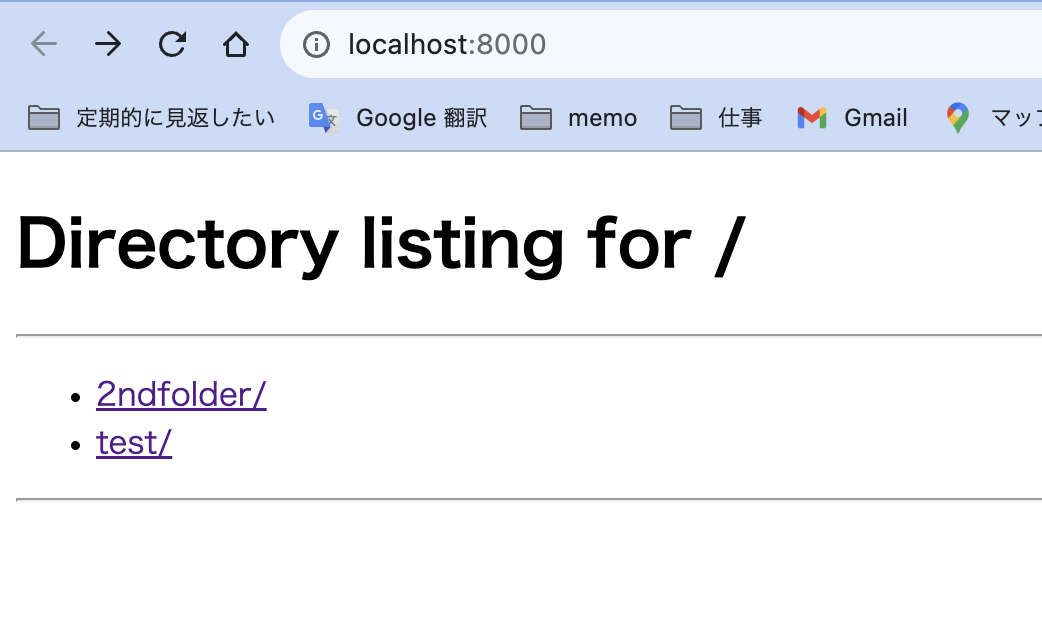
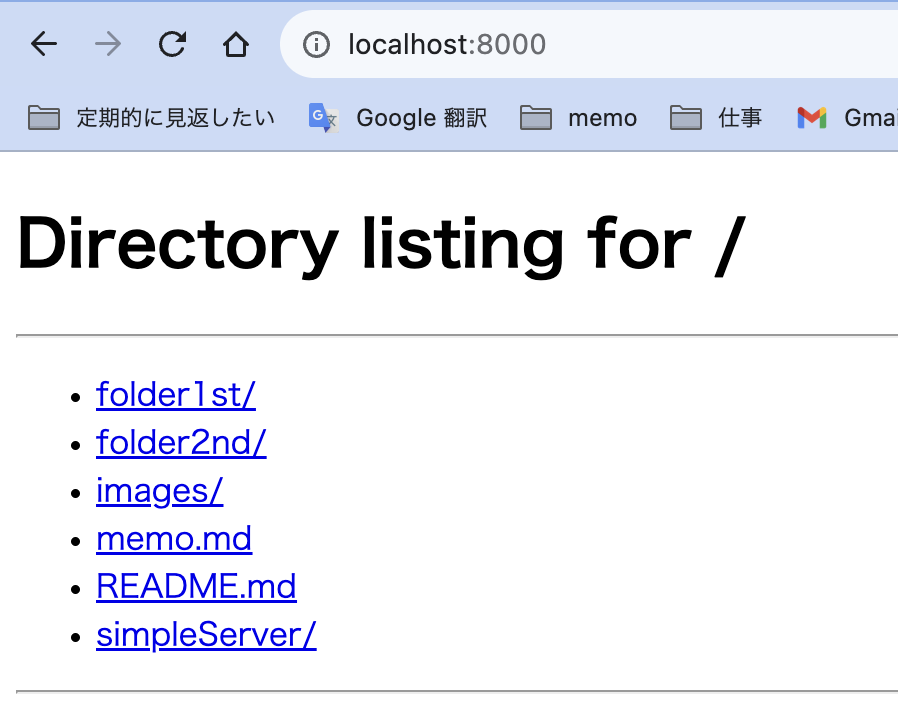
💄 説明を改善

diff --git a/easyWebServer/folder2nd/test.py b/easyWebServer/folder2nd/test.py
@@ -1,1 +1,1 @@
-"2ndfolder/test.py"
+"folder2nd/test.py"

diff --git a/easyWebServer/folder1st/test.py b/easyWebServer/folder1st/test.py
@@ -1,0 +1,1 @@
+"folder1st/test.py"

diff --git a/easyWebServer/memo.md b/easyWebServer/memo.md
@@ -2,8 +2,8 @@
 python -m http.server 8000
 ```
 というコマンドを打ってみた。
-![python -m http.server 8000](images/image.png)
+![http://localhost:8000/](images/image.png)
 
 ファイルの中身までしっかり吐き出されていてすごい
 `http://localhost:8000/2ndfolder/test.py`
-![http://localhost:8000/2ndfolder/test.py](images/image-1.png)
+![/2ndfolder/test.py](images/image2.png)
